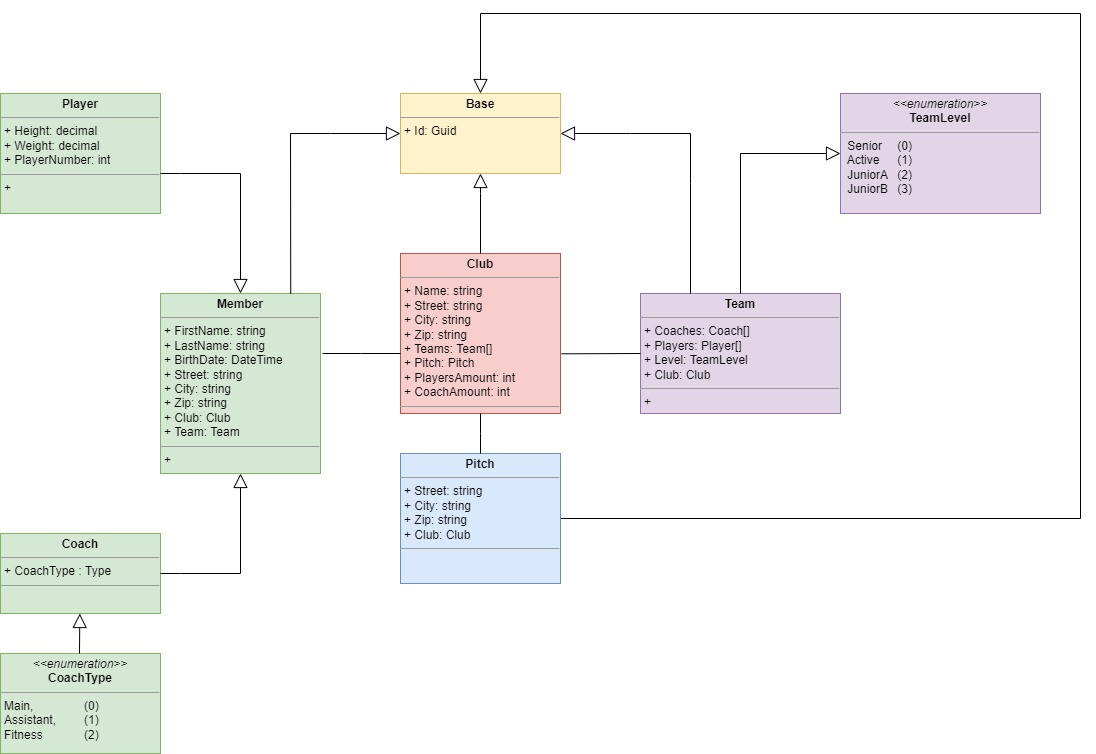
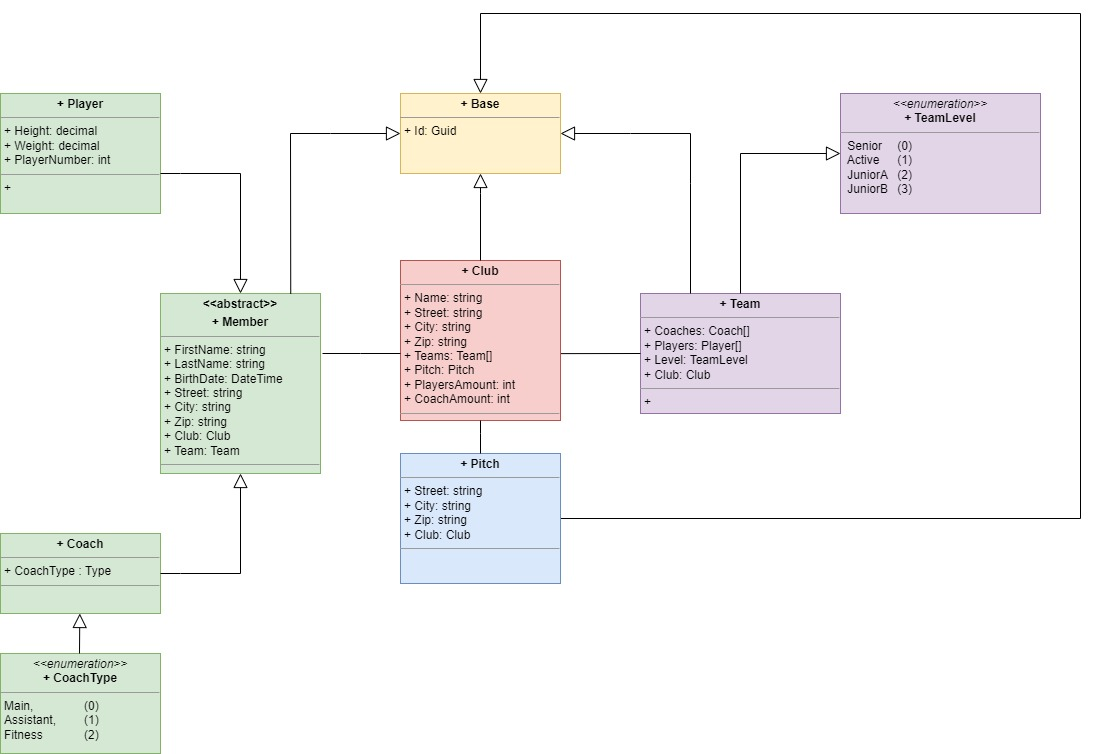
Edited the mistakes according to the comments.

diff --git a/src/backend/ClubManagement/ClubManagement.Domain/Enums/CoachType.cs b/src/backend/ClubManagement/ClubManagement.Domain/Enums/CoachType.cs
@@ -4,13 +4,12 @@ using System.Linq;
 using System.Text;
 using System.Threading.Tasks;
 
-namespace ClubManagement.Domain
+namespace ClubManagement.Domain.Enums
 {
-    public enum TeamLevel
+    public enum CoachType
     {
-        Senior,
-        Active,
-        JuniorA,
-        JuniorB,
+        Main,
+        Assistant,
+        Fitness,   
     }
 }

diff --git a/src/backend/ClubManagement/ClubManagement.Domain/Enums/TeamLevel.cs b/src/backend/ClubManagement/ClubManagement.Domain/Enums/TeamLevel.cs
@@ -4,12 +4,13 @@ using System.Linq;
 using System.Text;
 using System.Threading.Tasks;
 
-namespace ClubManagement.Domain
+namespace ClubManagement.Domain.Enums
 {
-    public enum CoachType
+    public enum TeamLevel
     {
-        Main,
-        Assistant,
-        Fitness,   
+        Senior,
+        Active,
+        JuniorA,
+        JuniorB,
     }
 }

diff --git a/src/backend/ClubManagement/ClubManagement.TestApp/Programm.cs b/src/backend/ClubManagement/ClubManagement.TestApp/Programm.cs
@@ -4,6 +4,7 @@ using System.Linq;
 using System.Text;
 using System.Threading.Tasks;
 using ClubManagement.Domain;
+using ClubManagement.Domain.Enums;
 
 namespace ClubManagement.TestApp
 {

diff --git a/src/backend/ClubManagement/ClubManagement.Domain/Coach.cs b/src/backend/ClubManagement/ClubManagement.Domain/Coach.cs
@@ -1,4 +1,5 @@
-using System;
+using ClubManagement.Domain.Enums;
+using System;
 using System.Collections.Generic;
 using System.Linq;
 using System.Text;

diff --git a/src/backend/ClubManagement/ClubManagement.Domain/Team.cs b/src/backend/ClubManagement/ClubManagement.Domain/Team.cs
@@ -1,4 +1,5 @@
-using System;
+using ClubManagement.Domain.Enums;
+using System;
 using System.Collections.Generic;
 using System.Linq;
 using System.Text;
